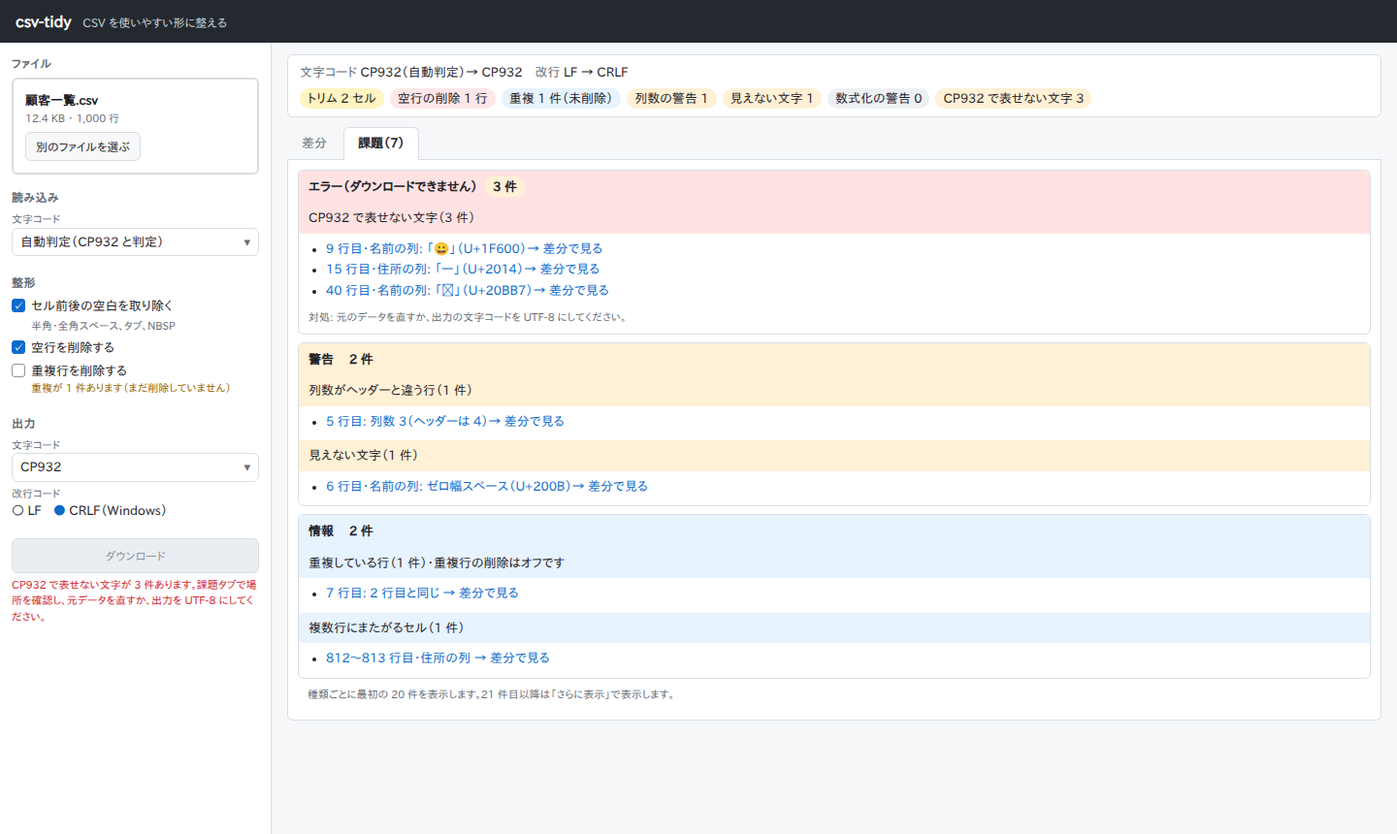
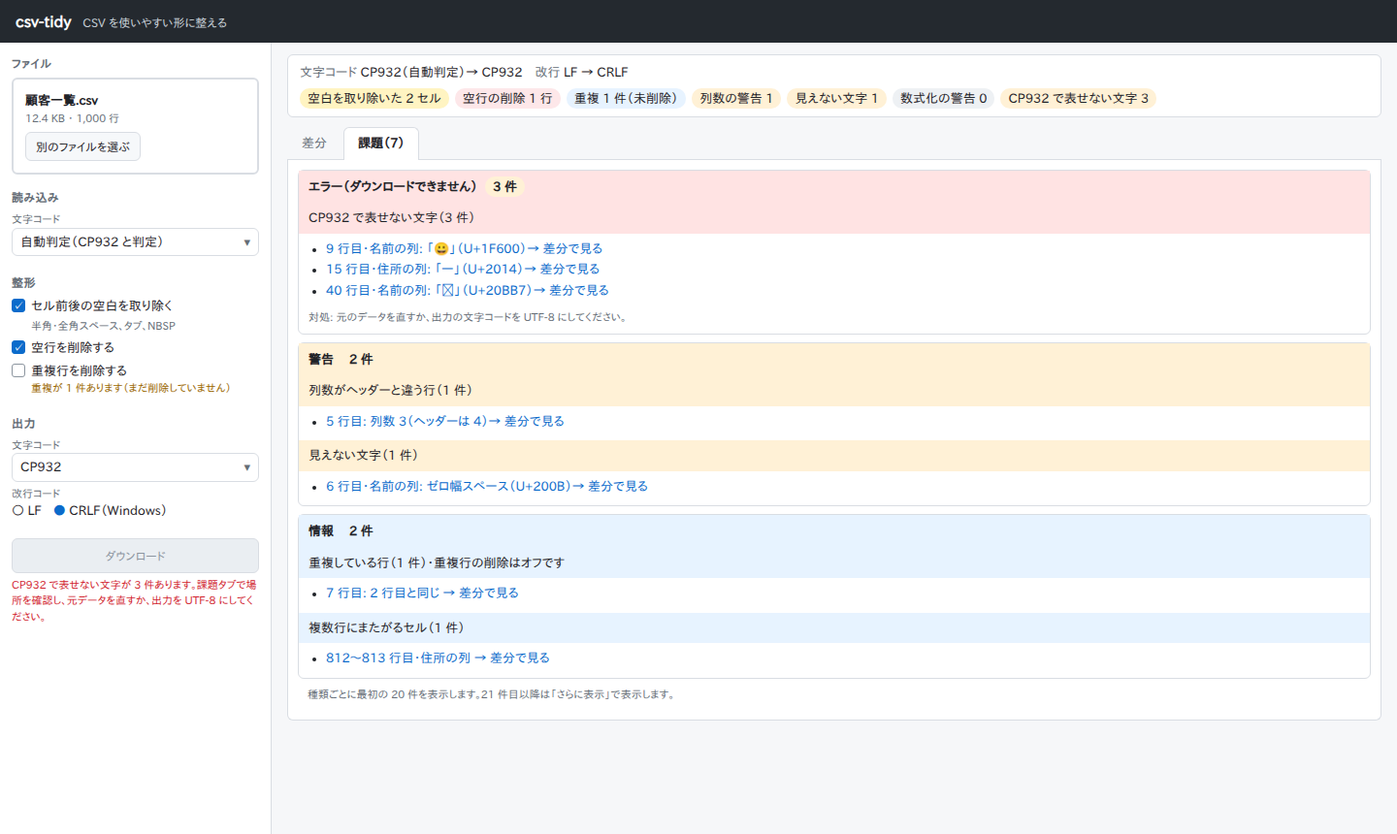
docs: place per-row change notes in a gutter between the diff tables
Adopt proposal A of five: a change gutter between before/after tables
replaces the note column; align row heights and text; record the
comparison in screen-design.md section 9.

Claude-Session: https://claude.ai/code/session_01F2tHVpZ4gMLcCAzaRS8JPv

Changed region(s): [[0.2188, 0.0907, 0.8438, 0.1512]]

diff --git a/docs/mockups/02-result-diff.html b/docs/mockups/02-result-diff.html
@@ -41,7 +41,7 @@
     <div class="summary">
       <div class="conv"><b>文字コード</b> CP932（自動判定）→ UTF-8（BOM 付き）　<b>改行</b> LF → CRLF</div>
       <div class="counts">
-        <span class="count trimmed">トリム 2 セル</span>
+        <span class="count trimmed">空白を取り除いた 2 セル</span>
         <span class="count removed">空行の削除 1 行</span>
         <span class="count info">重複 1 件（未削除）</span>
         <span class="count warn">列数の警告 1</span>
@@ -57,14 +57,14 @@
         <span class="button">◀ 前の変更</span><span class="button">次の変更 ▶</span>
         <span class="hint">変更 3 / 6</span>
         <div class="legend">
-          <span><span class="swatch" style="background:var(--trimmed)"></span>トリムしたセル</span>
+          <span><span class="swatch" style="background:var(--trimmed)"></span>空白を取り除いたセル</span>
           <span><span class="swatch" style="background:var(--removed)"></span>削除した行</span>
           <span><span class="swatch" style="background:var(--missing)"></span>セルなし</span>
           <span><span class="ws"></span>半角 <span class="ws full"></span>全角の取り除いた空白</span>
           <span><span class="mark">ZWSP</span> 見えない文字</span>
         </div>
       </div>
-      <div class="diff">
+      <div class="diff3">
         <div>
           <h3>変更前（元のファイルの行番号）</h3>
           <table>
@@ -79,18 +79,32 @@
             <tr class="gap"><td colspan="5">… 変更のない 990 行を省略 …</td></tr>
           </table>
         </div>
+        <div class="gutter">
+          <h3>変更</h3>
+          <table>
+            <tr><th>この行で起きたこと</th></tr>
+            <tr><td></td></tr>
+            <tr><td><span class="arrow">→</span><span class="note-text">空白を取り除いた（1 セル）</span></td></tr>
+            <tr><td><span class="arrow">→</span><span class="badge">削除: 空行</span></td></tr>
+            <tr class="focus"><td><span class="arrow">→</span><span class="badge warn">列数 3 / 4</span></td></tr>
+            <tr><td><span class="arrow">→</span><span class="badge warn">見えない文字</span></td></tr>
+            <tr><td><span class="arrow">→</span><span class="badge dup">重複: 2 行目と同じ</span></td></tr>
+            <tr><td><span class="arrow">→</span><span class="note-text">空白を取り除いた（1 セル）</span></td></tr>
+            <tr class="gap"><td></td></tr>
+          </table>
+        </div>
         <div>
           <h3>変更後（出力するファイルの行番号）</h3>
           <table>
-            <tr><th class="ln">行</th><th>名前</th><th>年齢</th><th>住所</th><th>電話</th><th class="note">備考（出力されない）</th></tr>
-            <tr><td class="ln">2</td><td>山田太郎</td><td>30</td><td>東京都</td><td>03-1111-2222</td><td class="note"></td></tr>
-            <tr><td class="ln">3</td><td class="trimmed">佐藤花子</td><td>25</td><td>大阪府</td><td>06-3333-4444</td><td class="note">トリム 1</td></tr>
-            <tr class="placeholder"><td class="ln"></td><td colspan="4">（出力しない）</td><td class="note"><span class="badge">削除: 空行</span></td></tr>
-            <tr class="focus"><td class="ln">4</td><td>鈴木一郎</td><td>41</td><td>愛知県</td><td class="missing">セルなし</td><td class="note"><span class="badge warn">列数 3 / 4</span></td></tr>
-            <tr><td class="ln">5</td><td>田中<span class="mark">ZWSP</span>次郎</td><td>28</td><td>福岡県</td><td>092-555-6666</td><td class="note"><span class="badge warn">見えない文字</span></td></tr>
-            <tr class="dup"><td class="ln">6</td><td>山田太郎</td><td>30</td><td>東京都</td><td>03-1111-2222</td><td class="note"><span class="badge dup">重複: 2 行目と同じ</span></td></tr>
-            <tr><td class="ln">7</td><td>高橋三郎</td><td class="trimmed">52</td><td>北海道</td><td>011-777-8888</td><td class="note">トリム 1</td></tr>
-            <tr class="gap"><td colspan="6">… 変更のない 990 行を省略 …</td></tr>
+            <tr><th class="ln">行</th><th>名前</th><th>年齢</th><th>住所</th><th>電話</th></tr>
+            <tr><td class="ln">2</td><td>山田太郎</td><td>30</td><td>東京都</td><td>03-1111-2222</td></tr>
+            <tr><td class="ln">3</td><td class="trimmed">佐藤花子</td><td>25</td><td>大阪府</td><td>06-3333-4444</td></tr>
+            <tr class="placeholder"><td class="ln"></td><td colspan="4">（出力しない）</td></tr>
+            <tr class="focus"><td class="ln">4</td><td>鈴木一郎</td><td>41</td><td>愛知県</td><td class="missing">セルなし</td></tr>
+            <tr><td class="ln">5</td><td>田中<span class="mark">ZWSP</span>次郎</td><td>28</td><td>福岡県</td><td>092-555-6666</td></tr>
+            <tr class="dup"><td class="ln">6</td><td>山田太郎</td><td>30</td><td>東京都</td><td>03-1111-2222</td></tr>
+            <tr><td class="ln">7</td><td>高橋三郎</td><td class="trimmed">52</td><td>北海道</td><td>011-777-8888</td></tr>
+            <tr class="gap"><td colspan="5">… 変更のない 990 行を省略 …</td></tr>
           </table>
         </div>
       </div>

diff --git a/docs/mockups/04-loading.html b/docs/mockups/04-loading.html
@@ -43,7 +43,7 @@
     <div class="summary">
       <div class="conv"><b>文字コード</b> CP932（自動判定）→ UTF-8（BOM 付き）　<b>改行</b> LF → CRLF</div>
       <div class="counts">
-        <span class="count trimmed">トリム 2 セル</span>
+        <span class="count trimmed">空白を取り除いた 2 セル</span>
         <span class="count removed">空行の削除 1 行</span>
         <span class="count info">重複 1 件（未削除）</span>
         <span class="count warn">列数の警告 1</span>
@@ -59,14 +59,14 @@
         <span class="button">◀ 前の変更</span><span class="button">次の変更 ▶</span>
         <span class="hint">変更 3 / 6</span>
         <div class="legend">
-          <span><span class="swatch" style="background:var(--trimmed)"></span>トリムしたセル</span>
+          <span><span class="swatch" style="background:var(--trimmed)"></span>空白を取り除いたセル</span>
           <span><span class="swatch" style="background:var(--removed)"></span>削除した行</span>
           <span><span class="swatch" style="background:var(--missing)"></span>セルなし</span>
           <span><span class="ws"></span>半角 <span class="ws full"></span>全角の取り除いた空白</span>
           <span><span class="mark">ZWSP</span> 見えない文字</span>
         </div>
       </div>
-      <div class="diff">
+      <div class="diff3">
         <div>
           <h3>変更前（元のファイルの行番号）</h3>
           <table>
@@ -81,18 +81,32 @@
             <tr class="gap"><td colspan="5">… 変更のない 990 行を省略 …</td></tr>
           </table>
         </div>
+        <div class="gutter">
+          <h3>変更</h3>
+          <table>
+            <tr><th>この行で起きたこと</th></tr>
+            <tr><td></td></tr>
+            <tr><td><span class="arrow">→</span><span class="note-text">空白を取り除いた（1 セル）</span></td></tr>
+            <tr><td><span class="arrow">→</span><span class="badge">削除: 空行</span></td></tr>
+            <tr class="focus"><td><span class="arrow">→</span><span class="badge warn">列数 3 / 4</span></td></tr>
+            <tr><td><span class="arrow">→</span><span class="badge warn">見えない文字</span></td></tr>
+            <tr><td><span class="arrow">→</span><span class="badge dup">重複: 2 行目と同じ</span></td></tr>
+            <tr><td><span class="arrow">→</span><span class="note-text">空白を取り除いた（1 セル）</span></td></tr>
+            <tr class="gap"><td></td></tr>
+          </table>
+        </div>
         <div>
           <h3>変更後（出力するファイルの行番号）</h3>
           <table>
-            <tr><th class="ln">行</th><th>名前</th><th>年齢</th><th>住所</th><th>電話</th><th class="note">備考（出力されない）</th></tr>
-            <tr><td class="ln">2</td><td>山田太郎</td><td>30</td><td>東京都</td><td>03-1111-2222</td><td class="note"></td></tr>
-            <tr><td class="ln">3</td><td class="trimmed">佐藤花子</td><td>25</td><td>大阪府</td><td>06-3333-4444</td><td class="note">トリム 1</td></tr>
-            <tr class="placeholder"><td class="ln"></td><td colspan="4">（出力しない）</td><td class="note"><span class="badge">削除: 空行</span></td></tr>
-            <tr class="focus"><td class="ln">4</td><td>鈴木一郎</td><td>41</td><td>愛知県</td><td class="missing">セルなし</td><td class="note"><span class="badge warn">列数 3 / 4</span></td></tr>
-            <tr><td class="ln">5</td><td>田中<span class="mark">ZWSP</span>次郎</td><td>28</td><td>福岡県</td><td>092-555-6666</td><td class="note"><span class="badge warn">見えない文字</span></td></tr>
-            <tr class="dup"><td class="ln">6</td><td>山田太郎</td><td>30</td><td>東京都</td><td>03-1111-2222</td><td class="note"><span class="badge dup">重複: 2 行目と同じ</span></td></tr>
-            <tr><td class="ln">7</td><td>高橋三郎</td><td class="trimmed">52</td><td>北海道</td><td>011-777-8888</td><td class="note">トリム 1</td></tr>
-            <tr class="gap"><td colspan="6">… 変更のない 990 行を省略 …</td></tr>
+            <tr><th class="ln">行</th><th>名前</th><th>年齢</th><th>住所</th><th>電話</th></tr>
+            <tr><td class="ln">2</td><td>山田太郎</td><td>30</td><td>東京都</td><td>03-1111-2222</td></tr>
+            <tr><td class="ln">3</td><td class="trimmed">佐藤花子</td><td>25</td><td>大阪府</td><td>06-3333-4444</td></tr>
+            <tr class="placeholder"><td class="ln"></td><td colspan="4">（出力しない）</td></tr>
+            <tr class="focus"><td class="ln">4</td><td>鈴木一郎</td><td>41</td><td>愛知県</td><td class="missing">セルなし</td></tr>
+            <tr><td class="ln">5</td><td>田中<span class="mark">ZWSP</span>次郎</td><td>28</td><td>福岡県</td><td>092-555-6666</td></tr>
+            <tr class="dup"><td class="ln">6</td><td>山田太郎</td><td>30</td><td>東京都</td><td>03-1111-2222</td></tr>
+            <tr><td class="ln">7</td><td>高橋三郎</td><td class="trimmed">52</td><td>北海道</td><td>011-777-8888</td></tr>
+            <tr class="gap"><td colspan="5">… 変更のない 990 行を省略 …</td></tr>
           </table>
         </div>
       </div>

diff --git a/docs/mockups/07-v0.2-columns.html b/docs/mockups/07-v0.2-columns.html
@@ -52,7 +52,7 @@
     <div class="summary">
       <div class="conv"><b>文字コード</b> CP932（自動判定）→ UTF-8（BOM 付き）　<b>改行</b> LF → CRLF</div>
       <div class="counts">
-        <span class="count trimmed">トリム 2 セル</span>
+        <span class="count trimmed">空白を取り除いた 2 セル</span>
         <span class="count removed">空行の削除 1 行</span>
         <span class="count info">重複 1 件（未削除）</span>
         <span class="count warn">列数の警告 1</span>
@@ -68,14 +68,14 @@
         <span class="button">◀ 前の変更</span><span class="button">次の変更 ▶</span>
         <span class="hint">変更 3 / 6</span>
         <div class="legend">
-          <span><span class="swatch" style="background:var(--trimmed)"></span>トリムしたセル</span>
+          <span><span class="swatch" style="background:var(--trimmed)"></span>空白を取り除いたセル</span>
           <span><span class="swatch" style="background:var(--removed)"></span>削除した行</span>
           <span><span class="swatch" style="background:var(--missing)"></span>セルなし</span>
           <span><span class="ws"></span>半角 <span class="ws full"></span>全角の取り除いた空白</span>
           <span><span class="mark">ZWSP</span> 見えない文字</span>
         </div>
       </div>
-      <div class="diff">
+      <div class="diff3">
         <div>
           <h3>変更前（元のファイルの行番号）</h3>
           <table>
@@ -90,18 +90,32 @@
             <tr class="gap"><td colspan="5">… 変更のない 990 行を省略 …</td></tr>
           </table>
         </div>
+        <div class="gutter">
+          <h3>変更</h3>
+          <table>
+            <tr><th>この行で起きたこと</th></tr>
+            <tr><td></td></tr>
+            <tr><td><span class="arrow">→</span><span class="note-text">空白を取り除いた（1 セル）</span></td></tr>
+            <tr><td><span class="arrow">→</span><span class="badge">削除: 空行</span></td></tr>
+            <tr class="focus"><td><span class="arrow">→</span><span class="badge warn">列数 3 / 4</span></td></tr>
+            <tr><td><span class="arrow">→</span><span class="badge warn">見えない文字</span></td></tr>
+            <tr><td><span class="arrow">→</span><span class="badge dup">重複: 2 行目と同じ</span></td></tr>
+            <tr><td><span class="arrow">→</span><span class="note-text">空白を取り除いた（1 セル）</span></td></tr>
+            <tr class="gap"><td></td></tr>
+          </table>
+        </div>
         <div>
           <h3>変更後（出力するファイルの行番号・列は出力する順番と名前）</h3>
           <table>
-            <tr><th class="ln">行</th><th>氏名 <span class="hint">← 名前</span></th><th>電話</th><th>住所</th><th class="note">備考（出力されない）</th></tr>
-            <tr><td class="ln">2</td><td>山田太郎</td><td>03-1111-2222</td><td>東京都</td><td class="note"></td></tr>
-            <tr><td class="ln">3</td><td class="trimmed">佐藤花子</td><td>06-3333-4444</td><td>大阪府</td><td class="note">トリム 1</td></tr>
-            <tr class="placeholder"><td class="ln"></td><td colspan="3">（出力しない）</td><td class="note"><span class="badge">削除: 空行</span></td></tr>
-            <tr class="focus"><td class="ln">4</td><td>鈴木一郎</td><td class="missing">セルなし</td><td>愛知県</td><td class="note"><span class="badge warn">列数 3 / 4</span></td></tr>
-            <tr><td class="ln">5</td><td>田中<span class="mark">ZWSP</span>次郎</td><td>092-555-6666</td><td>福岡県</td><td class="note"><span class="badge warn">見えない文字</span></td></tr>
-            <tr class="dup"><td class="ln">6</td><td>山田太郎</td><td>03-1111-2222</td><td>東京都</td><td class="note"><span class="badge dup">重複: 2 行目と同じ</span></td></tr>
-            <tr><td class="ln">7</td><td>高橋三郎</td><td>011-777-8888</td><td>北海道</td><td class="note">トリム 1</td></tr>
-            <tr class="gap"><td colspan="5">… 変更のない 990 行を省略 …</td></tr>
+            <tr><th class="ln">行</th><th>氏名 <span class="hint">← 名前</span></th><th>電話</th><th>住所</th></tr>
+            <tr><td class="ln">2</td><td>山田太郎</td><td>03-1111-2222</td><td>東京都</td></tr>
+            <tr><td class="ln">3</td><td class="trimmed">佐藤花子</td><td>06-3333-4444</td><td>大阪府</td></tr>
+            <tr class="placeholder"><td class="ln"></td><td colspan="3">（出力しない）</td></tr>
+            <tr class="focus"><td class="ln">4</td><td>鈴木一郎</td><td class="missing">セルなし</td><td>愛知県</td></tr>
+            <tr><td class="ln">5</td><td>田中<span class="mark">ZWSP</span>次郎</td><td>092-555-6666</td><td>福岡県</td></tr>
+            <tr class="dup"><td class="ln">6</td><td>山田太郎</td><td>03-1111-2222</td><td>東京都</td></tr>
+            <tr><td class="ln">7</td><td>高橋三郎</td><td>011-777-8888</td><td>北海道</td></tr>
+            <tr class="gap"><td colspan="4">… 変更のない 990 行を省略 …</td></tr>
           </table>
         </div>
       </div>

diff --git a/docs/mockups/style.css b/docs/mockups/style.css
@@ -88,16 +88,22 @@ body {
 .legend { display: flex; gap: 10px; margin-left: auto; color: var(--muted); font-size: 11px; }
 .swatch { display: inline-block; width: 10px; height: 10px; border: 1px solid var(--line); margin-right: 3px; vertical-align: -1px; }
 
+/* 差分表示: 左右の表の間に「変更」の帯を置く（案A） */
+.diff3 { display: grid; grid-template-columns: 1fr 180px 1fr; }
+.diff3 h3 { margin: 0 0 4px; font-size: 12px; color: var(--muted); }
+.diff3 td, .diff3 th { height: 28px; vertical-align: middle; }
+.gutter h3 { text-align: center; }
+.gutter td, .gutter th { border-left: 0; border-right: 0; background: #f6f8fa; text-align: left; padding-left: 8px; }
+.gutter th { font-weight: normal; color: var(--muted); font-size: 11px; }
+.gutter .arrow { color: #8c959f; margin-right: 4px; }
+.gutter .badge { margin-left: 0; }
+.note-text { color: var(--muted); font-size: 11px; }
 /* 差分表示: 左右に並べる */
 .diff { display: grid; grid-template-columns: 1fr 1fr; gap: 8px; }
 .diff h3 { margin: 0 0 4px; font-size: 12px; color: var(--muted); }
 table { border-collapse: collapse; width: 100%; table-layout: fixed; }
 th, td { border: 1px solid var(--line); padding: 2px 6px; text-align: left; white-space: nowrap; overflow: hidden; text-overflow: ellipsis; }
 th { background: #f6f8fa; font-weight: bold; }
-/* 備考の列: 出力されない補足なので、データの列から離し、見た目も変える */
-td.note, th.note { width: 158px; white-space: normal; border: 0; border-left: 10px solid var(--panel); background: #f6f8fa; color: var(--muted); font-size: 11px; }
-th.note { background: transparent; font-weight: normal; font-style: italic; }
-tr.removed td.note, tr.placeholder td.note, tr.dup td.note, tr.focus td.note { background: #f6f8fa; outline: none; }
 td.ln, th.ln { width: 44px; color: var(--muted); text-align: right; background: #f6f8fa; }
 tr.removed td { background: var(--removed); }
 tr.removed td.ln { box-shadow: inset 3px 0 var(--removed-line); }

diff --git a/docs/mockups/03-result-issues.html b/docs/mockups/03-result-issues.html
@@ -41,7 +41,7 @@
     <div class="summary">
       <div class="conv"><b>文字コード</b> CP932（自動判定）→ UTF-8（BOM 付き）　<b>改行</b> LF → CRLF</div>
       <div class="counts">
-        <span class="count trimmed">トリム 2 セル</span>
+        <span class="count trimmed">空白を取り除いた 2 セル</span>
         <span class="count removed">空行の削除 1 行</span>
         <span class="count info">重複 1 件（未削除）</span>
         <span class="count warn">列数の警告 1</span>

diff --git a/docs/mockups/06-unencodable.html b/docs/mockups/06-unencodable.html
@@ -41,7 +41,7 @@
     <div class="summary">
       <div class="conv"><b>文字コード</b> CP932（自動判定）→ CP932　<b>改行</b> LF → CRLF</div>
       <div class="counts">
-        <span class="count trimmed">トリム 2 セル</span>
+        <span class="count trimmed">空白を取り除いた 2 セル</span>
         <span class="count removed">空行の削除 1 行</span>
         <span class="count info">重複 1 件（未削除）</span>
         <span class="count warn">列数の警告 1</span>

diff --git a/docs/screen-design.md b/docs/screen-design.md
@@ -78,7 +78,7 @@
 ### 4.1 概要（常に上に表示）
 
 - 1行目: 文字コードと改行コードの変換（例: `CP932（自動判定）→ UTF-8（BOM 付き）`、`LF → CRLF`）（FR-47）
-- 2行目: 件数を色付きの札で並べる。トリムしたセル、削除した空行、重複（削除したか未削除か）、列数の警告、見えない文字、数式化の警告、CP932 で表せない文字（FR-46）
+- 2行目: 件数を色付きの札で並べる。空白を取り除いたセル、削除した空行、重複（削除したか未削除か）、列数の警告、見えない文字、数式化の警告、CP932 で表せない文字（FR-46）
 
 ### 4.2 タブ
 
@@ -92,22 +92,23 @@
 | 移動のボタン | 「◀ 前の変更」「次の変更 ▶」と「変更 3 / 6」のような位置の表示 | FR-44 |
 | 凡例 | 色と記号の意味 | ― |
 | 左の表 | 変更前。行番号は元のファイルの行番号 | FR-42 |
-| 右の表 | 変更後。行番号は出力するファイルの行番号。右端に「備考（出力されない）」の欄を置き、変更や課題の内容をバッジ（色付きの小さな札）で示す。備考はデータの列と間をあけ、背景を灰色、見出しを斜体にして、出力に含まれる列と見分けられるようにする | FR-42, FR-43 |
+| 右の表 | 変更後。行番号は出力するファイルの行番号 | FR-42 |
+| 変更の帯 | 左右の表の間に置く幅 180px の帯。その行で起きたことを「→ 削除: 空行」「→ 列数 3 / 4」のように、矢印とバッジ（色付きの小さな札）で書く。どちらの表にも属さないので、データの列とは混同しない | FR-43 |
 
-左右の表は、行を CSV のレコード単位でそろえる（FR-42）。
+左右の表と変更の帯は、行を CSV のレコード単位でそろえる（FR-42）。3 つとも行の高さを 28px に固定し、文字とバッジは左寄せ・縦は中央にそろえる。
 
 **変更の示し方**
 
-| 変更・課題 | 左の表（変更前） | 右の表（変更後） |
-| --- | --- | --- |
-| トリムしたセル | 黄色。取り除いた空白を記号で示す（半角は細い「⊔」、全角は赤く太い「⊔」） | 黄色。トリム後の値 |
-| 削除した行 | 赤い背景と左端の赤い線 | 「（出力しない）」と表示し、備考に「削除: 空行」「削除: 重複」 |
-| 重複（削除していない） | 左端の青い線 | 備考に「重複: N 行目と同じ」 |
-| セルがない（列数が足りない） | 斜線の背景に「セルなし」 | 同左。備考に「列数 3 / 4」 |
-| 見えない文字・制御文字 | 文字の位置に `ZWSP` のような赤い札 | 同左。備考に「見えない文字」 |
-| 数式化の警告 | ― | 備考に「数式になる値」 |
-| CP932 で表せない文字 | ― | 文字を赤い枠で囲み、備考に「CP932 で表せない」 |
-| 課題の一覧から移動してきた行 | 青い枠で強調 | 青い枠で強調 |
+| 変更・課題 | 左の表（変更前） | 変更の帯 | 右の表（変更後） |
+| --- | --- | --- | --- |
+| 空白を取り除いたセル | 黄色。取り除いた空白を記号で示す（半角は細い「⊔」、全角は赤く太い「⊔」） | 「→ 空白を取り除いた（N セル）」 | 黄色。取り除いた後の値 |
+| 削除した行 | 赤い背景と左端の赤い線 | 「→ 削除: 空行」「→ 削除: 重複」（赤） | 「（出力しない）」 |
+| 重複（削除していない） | 左端の青い線 | 「→ 重複: N 行目と同じ」（青） | 左端の青い線 |
+| セルがない（列数が足りない） | 斜線の背景に「セルなし」 | 「→ 列数 3 / 4」（黄土色） | 同左 |
+| 見えない文字・制御文字 | 文字の位置に `ZWSP` のような赤い札 | 「→ 見えない文字」（黄土色） | 同左 |
+| 数式化の警告 | ― | 「→ 数式になる値」（黄土色） | 該当するセルを黄土色の枠で囲む |
+| CP932 で表せない文字 | ― | 「→ CP932 で表せない」（赤） | 文字を赤い枠で囲む |
+| 課題の一覧から移動してきた行 | 青い枠で強調 | 青い枠で強調 | 青い枠で強調 |
 
 **行の並べ方**
 
@@ -213,13 +214,31 @@ v0.2 で追加する列の操作（選択・並べ替え・名前の変更・削
 | S6 | 課題から差分への移動 | 課題を押すと差分タブの該当する行へ移動する |
 | S7 | v0.2 の列の操作の場所 | 左の設定欄に列の一覧を置く |
 | S8 | v0.2 の列の操作の単位 | 最終形を指定する |
+| S9 | 差分の行ごとの説明の置き場所 | 左右の表の間に「変更」の帯を置く（5 案から案A を選択。2026-10-05） |
 
 ### 8.2 仮定（画面設計の段階で置いた内容。レビューで変更してよい）
 
 - 左の設定欄の幅は 280px、画面の幅は 1280px 以上を前提にする。
-- 色の割り当て: トリムは黄、削除は赤、重複は青、警告は黄土色、情報は水色。
+- 色の割り当て: 空白を取り除いたセルは黄、削除は赤、重複は青、警告は黄土色、情報は水色。
 - 取り除いた空白は「⊔」の形の記号で示し、全角は赤く太くして区別する。
 - 長い値はセルの幅で切り、マウスを重ねると全体を表示する。
-- 右の表の備考の欄は、データの列との間を 10px あけ、背景を灰色にする（レビューで「列が追加されたように見える」との指摘を受けて変更）。
 - v0.2 の列の名前は、打ち終わって 0.5 秒たってから処理し直す。
 - 処理中に次の操作があったら、前の通信を打ち切る。
+
+## 9. 検討の記録: 差分の行ごとの説明の置き場所（S9）
+
+最初の見本では、右の表の右端に「備考」の列を置いていた。レビューで次の指摘があり、5 つの案を比べた。
+
+- 備考が、データの列が追加されたように見える
+- 備考がどの行に対応しているか分かりにくい。文字の揃えがばらばらで違和感がある
+
+| 案 | 内容 | 評価 |
+| --- | --- | --- |
+| A | 左右の表の間に「変更」の帯を置く | どちらの表にも属さず、左右の行と同じ高さで並ぶ。押さずに内容が読める。表の幅が帯の分だけ狭くなる。**採用** |
+| B | 備考を右の表の最後の列に戻し、太い縦線と行の帯で区切る | 実装は簡単だが、データの列に見えやすく、右の表の値が切れる |
+| C | 備考の列をなくし、行番号の横の色の点と、押すと開く説明の行で示す | 表の幅を最も広く使えるが、押すまで内容が分からない |
+| D | 行番号の隣に短い「状態」の列を置く（左右とも） | 実装は簡単。札の言葉が短く、詳しくはマウスを重ねる必要がある |
+| E | 変更前と変更後を 1 つの表にまとめ、セルの中で取り消し線と色で示す | Word の変更履歴に近く、非エンジニアには分かりやすい。ただし FR-42（左右に並べる）の変更が必要 |
+
+利用者は開発者本人とポートフォリオを見る人で、非エンジニアは含めない（要件定義書の L5 のとおり）ことを確認したうえで、案A を採用した。
+
